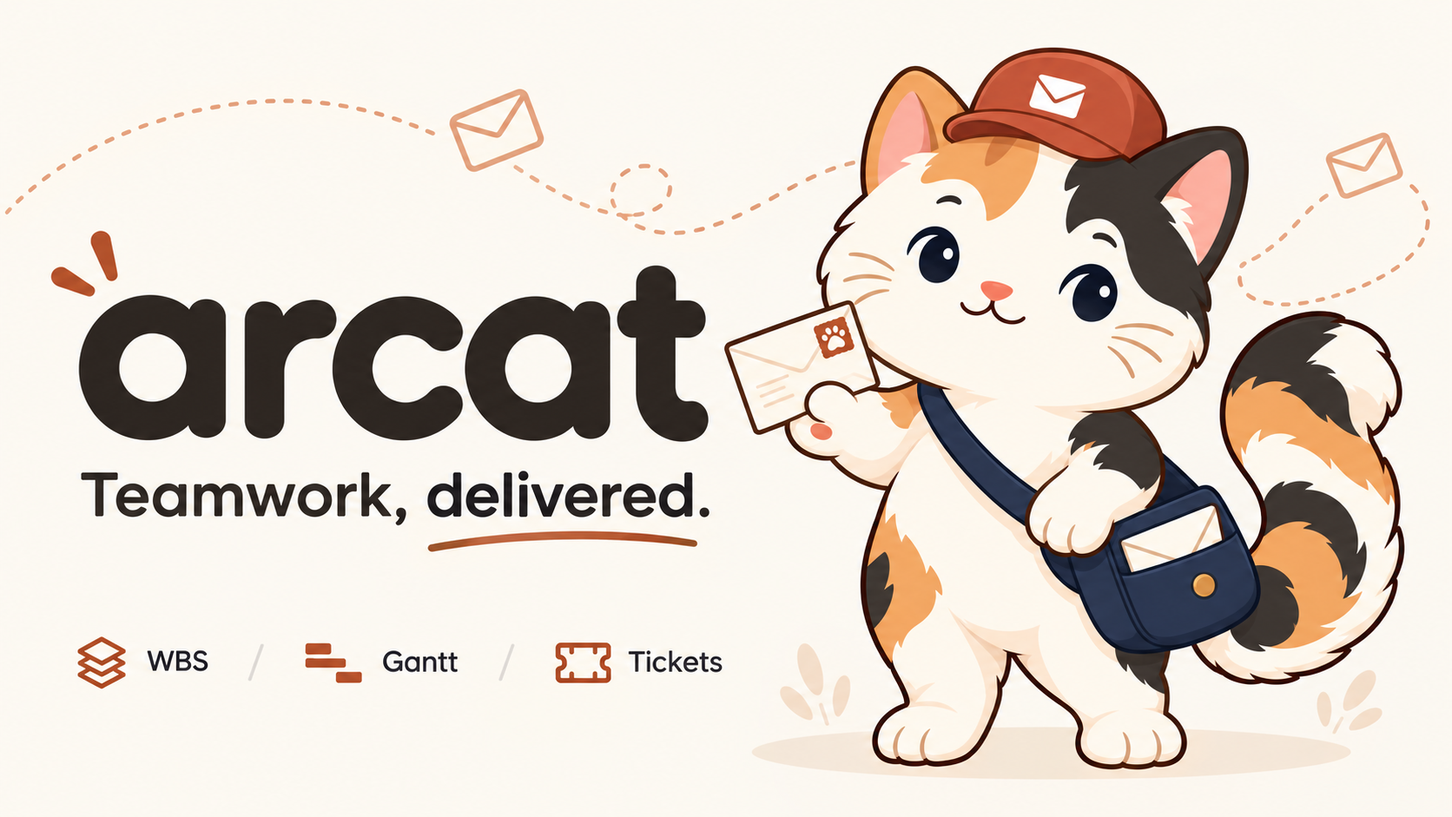
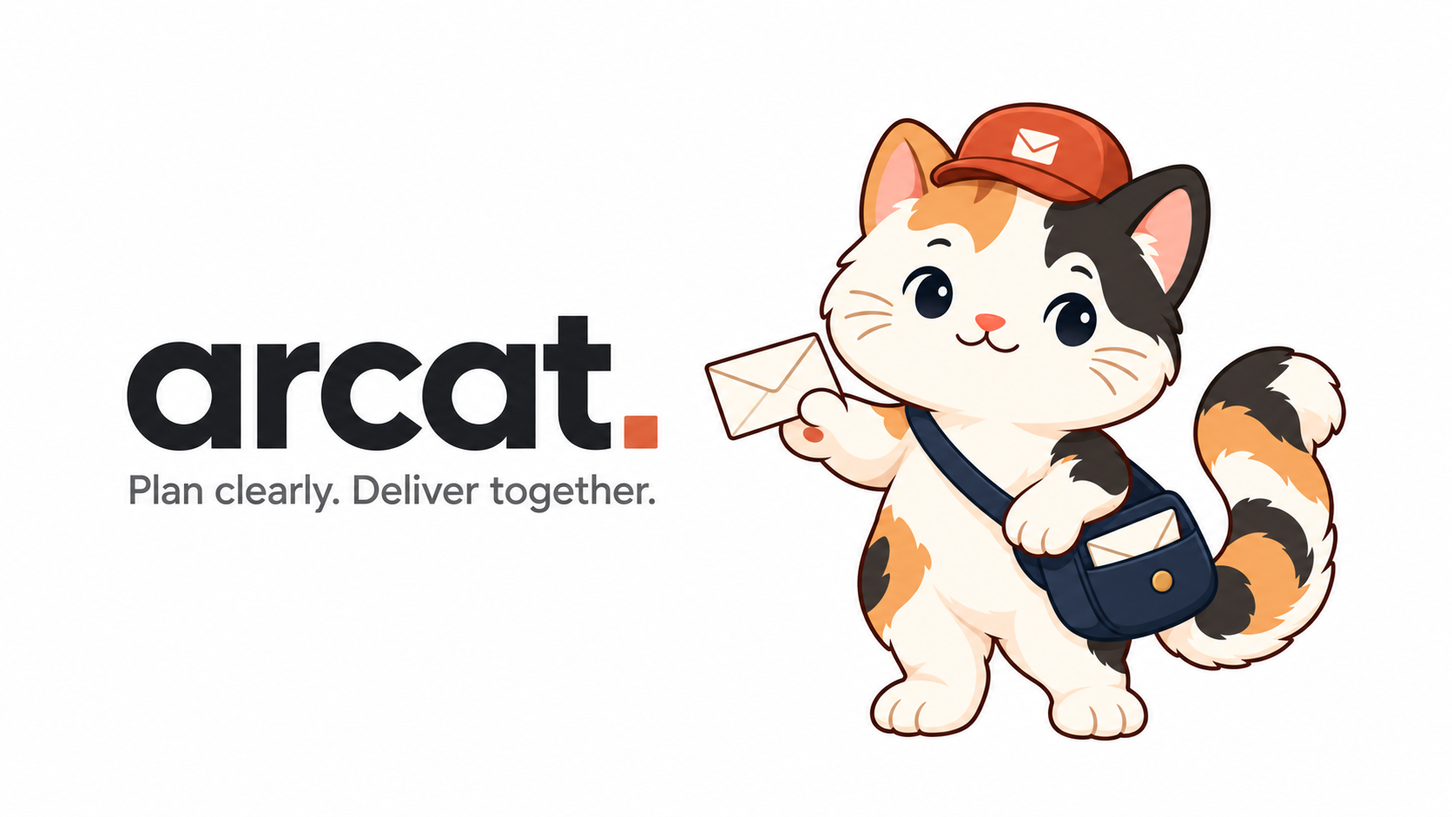
style: use a clean light theme with restrained calico accents

diff --git a/frontend/public/design-preview.html b/frontend/public/design-preview.html
@@ -7,28 +7,29 @@
   <link rel="icon" type="image/png" href="./brand/arcat-mark.png" />
   <style>
     :root {
+      color-scheme: light;
       font-family: system-ui, -apple-system, 'Noto Sans KR', sans-serif;
       font-synthesis: none;
-      --text: #282520; --canvas: #faf7f2; --surface: #fff; --paper: #fffcf7;
-      --subtle: #f2e9dc; --muted: #665e54; --line: #ddd3c6; --control: #908171;
+      --text: #20242b; --canvas: #f7f8fa; --surface: #fff; --paper: #ffffff;
+      --subtle: #f2f4f7; --muted: #59616d; --line: #e2e5e9; --control: #7a818b;
       --primary: #a64b2a; --primary-hover: #873b21; --on-primary: #fff;
-      --selected: #f8e9dd; --selected-text: #873b21; --danger: #ac322d;
-      --task-complete: #a64b2a; --task-remaining: #f0d4bf;
-      --epic-complete: #514d48; --epic-remaining: #d9d3c9;
+      --selected: #fff6ef; --selected-text: #20242b; --danger: #ac322d;
+      --task-complete: #a64b2a; --task-remaining: #e2e5e9;
+      --epic-complete: #4c5665; --epic-remaining: #e2e5e9;
       color: var(--text); background: var(--canvas);
     }
     * { box-sizing: border-box; } body { margin: 0; } button, input, select { font: inherit; } button { cursor: pointer; } a { color: inherit; text-decoration: none; } :focus-visible { outline: 3px solid var(--primary); outline-offset: 2px; }
     .top { height: 64px; display: flex; align-items: center; justify-content: space-between; gap: 16px; padding: 0 28px; border-bottom: 1px solid var(--line); background: var(--surface); }
     .top-left,.top-right,.brand,.crumbs,.user { display: flex; align-items: center; gap: 12px; } .brand { font-weight: 800; font-size: 20px; letter-spacing: -.04em; } .mark { display: block; width: 32px; height: 32px; flex: 0 0 auto; object-fit: contain; }
     .divider { width: 1px; height: 22px; background: var(--line); margin: 0 8px; } .crumbs { color: var(--muted); font-size: 13px; } .crumbs b { color: var(--text); } .search { width: 270px; height: 36px; border: 1px solid var(--control); border-radius: 8px; padding: 0 12px; background: var(--canvas); } .user { font-size: 13px; font-weight: 600; } .avatar { width: 32px; height: 32px; display: grid; place-items: center; border-radius: 50%; background: var(--selected); color: var(--primary); font-weight: 800; }
-    .shell { display: grid; grid-template-columns: 232px minmax(0,1fr); min-height: calc(100vh - 64px); } aside { background: var(--paper); border-right: 1px solid var(--line); padding: 24px 14px; } .side-title { margin: 0 10px 8px; color: var(--muted); font-size: 11px; font-weight: 800; letter-spacing: .09em; } .project-switch { width: 100%; display: flex; justify-content: space-between; align-items: center; padding: 12px; border: 1px solid var(--control); border-radius: 9px; background: var(--surface); font-weight: 700; text-align: left; } nav { display: grid; gap: 4px; margin-top: 26px; } nav a { display: flex; align-items: center; gap: 12px; border-radius: 9px; padding: 11px 13px; font-size: 14px; font-weight: 600; color: var(--muted); } nav a.active { color: var(--selected-text); background: var(--selected); box-shadow: inset 3px 0 var(--primary); } nav a:hover { background: var(--canvas); } .nav-icon { width: 19px; text-align: center; color: var(--muted); } .side-foot { margin: 38px 12px 0; padding-top: 20px; border-top: 1px solid var(--line); color: var(--muted); font-size: 12px; line-height: 1.55; }
-    main { min-width: 0; padding: 34px clamp(18px,3vw,42px) 70px; } .notice { display: inline-flex; align-items: center; gap: 8px; padding: 7px 11px; background: var(--selected); color: var(--selected-text); border-radius: 6px; font-size: 12px; font-weight: 700; } .heading { display: flex; align-items: end; justify-content: space-between; gap: 20px; margin: 23px 0 25px; } .eyebrow { margin: 0 0 7px; color: var(--primary); font-size: 12px; font-weight: 800; letter-spacing: .12em; } h1 { margin: 0; font-size: clamp(28px,3vw,36px); line-height: 1.2; letter-spacing: -.05em; } .subtitle { margin: 9px 0 0; color: var(--muted); font-size: 15px; } .primary { min-height: 42px; padding: 0 17px; border: 0; border-radius: 8px; color: var(--on-primary); background: var(--primary); font-weight: 700; white-space: nowrap; }
+    .shell { display: grid; grid-template-columns: 232px minmax(0,1fr); min-height: calc(100vh - 64px); } aside { background: var(--paper); border-right: 1px solid var(--line); padding: 24px 14px; } .side-title { margin: 0 10px 8px; color: var(--muted); font-size: 11px; font-weight: 800; letter-spacing: .09em; } .project-switch { width: 100%; display: flex; justify-content: space-between; align-items: center; padding: 12px; border: 1px solid var(--control); border-radius: 9px; background: var(--surface); font-weight: 700; text-align: left; } nav { display: grid; gap: 4px; margin-top: 26px; } nav a { display: flex; align-items: center; gap: 12px; border-radius: 9px; padding: 11px 13px; font-size: 14px; font-weight: 600; color: var(--muted); } nav a.active { color: var(--text); background: var(--subtle); box-shadow: inset 3px 0 var(--primary); } nav a:hover { background: var(--canvas); } .nav-icon { width: 19px; text-align: center; color: var(--muted); } .side-foot { margin: 38px 12px 0; padding-top: 20px; border-top: 1px solid var(--line); color: var(--muted); font-size: 12px; line-height: 1.55; }
+    main { min-width: 0; padding: 34px clamp(18px,3vw,42px) 70px; } .notice { display: inline-flex; align-items: center; gap: 8px; padding: 7px 11px; background: var(--subtle); color: var(--muted); border-radius: 6px; font-size: 12px; font-weight: 700; } .heading { display: flex; align-items: end; justify-content: space-between; gap: 20px; margin: 23px 0 25px; } .eyebrow { margin: 0 0 7px; color: var(--primary); font-size: 12px; font-weight: 800; letter-spacing: .12em; } h1 { margin: 0; font-size: clamp(28px,3vw,36px); line-height: 1.2; letter-spacing: -.05em; } .subtitle { margin: 9px 0 0; color: var(--muted); font-size: 15px; } .primary { min-height: 42px; padding: 0 17px; border: 0; border-radius: 8px; color: var(--on-primary); background: var(--primary); font-weight: 700; white-space: nowrap; }
     .primary:hover { background: var(--primary-hover); }
     .summary { display: grid; grid-template-columns: repeat(3,minmax(0,1fr)); gap: 12px; margin-bottom: 22px; } .stat { background: var(--surface); border: 1px solid var(--line); border-radius: 10px; padding: 16px 18px; } .stat label { display: block; margin-bottom: 6px; color: var(--muted); font-size: 13px; } .stat strong { font-size: 22px; } .stat span { margin-left: 8px; color: var(--muted); font-size: 12px; }
-    .panel { border: 1px solid var(--line); border-radius: 12px; overflow: hidden; background: var(--surface); box-shadow: 0 4px 20px #28252008; } .toolbar { min-height: 64px; display: flex; justify-content: space-between; align-items: center; flex-wrap: wrap; gap: 12px; padding: 12px 18px; border-bottom: 1px solid var(--line); } .toolbar-group { display: flex; align-items: center; flex-wrap: wrap; gap: 8px; } .secondary { min-height: 36px; padding: 0 11px; border: 1px solid var(--control); border-radius: 8px; color: var(--text); background: var(--surface); font-size: 13px; font-weight: 700; } .range { margin: 0 8px; font-size: 14px; font-weight: 800; white-space: nowrap; } .filter { background: var(--paper); } .filter input, .filter select { min-height: 36px; border: 1px solid var(--control); border-radius: 8px; background: var(--surface); padding: 0 10px; font-size: 13px; } .filter input { width: 220px; } .filter-count { color: var(--muted); font-size: 13px; }
+    .panel { border: 1px solid var(--line); border-radius: 12px; overflow: hidden; background: var(--surface); box-shadow: 0 4px 20px #20242b08; } .toolbar { min-height: 64px; display: flex; justify-content: space-between; align-items: center; flex-wrap: wrap; gap: 12px; padding: 12px 18px; border-bottom: 1px solid var(--line); } .toolbar-group { display: flex; align-items: center; flex-wrap: wrap; gap: 8px; } .secondary { min-height: 36px; padding: 0 11px; border: 1px solid var(--control); border-radius: 8px; color: var(--text); background: var(--surface); font-size: 13px; font-weight: 700; } .range { margin: 0 8px; font-size: 14px; font-weight: 800; white-space: nowrap; } .filter { background: var(--paper); } .filter input, .filter select { min-height: 36px; border: 1px solid var(--control); border-radius: 8px; background: var(--surface); padding: 0 10px; font-size: 13px; } .filter input { width: 220px; } .filter-count { color: var(--muted); font-size: 13px; }
     .gantt { overflow-x: auto; } .gantt-head,.gantt-row { display: grid; grid-template-columns: 315px 90px minmax(500px,1fr); min-width: 850px; } .gantt-head { height: 48px; align-items: center; color: var(--muted); background: var(--canvas); border-bottom: 1px solid var(--line); font-size: 12px; font-weight: 700; } .gantt-head > span,.gantt-row > span { padding: 0 14px; } .gantt-head .months { display: grid; grid-template-columns: repeat(3,1fr); text-align: center; border-left: 1px solid var(--line); } .gantt-head .months b { border-right: 1px solid var(--line); padding: 14px 0; }
     .gantt-row { height: 52px; align-items: center; border-bottom: 1px solid var(--line); font-size: 13px; } .gantt-row:last-child { border: 0; } .gantt-row:hover { background: var(--paper); } .issue-name { display: flex; flex-direction: column; justify-content: center; gap: 2px; min-width: 0; } .issue-name small { color: var(--muted); font-size: 11px; } .issue-name b { overflow: hidden; text-overflow: ellipsis; white-space: nowrap; font-size: 14px; } .level-1 { padding-left: 32px !important; } .level-2 { padding-left: 50px !important; } .level-3 { padding-left: 68px !important; } .progress { color: var(--muted); font-size: 13px; text-align: right; } .timeline { height: 100%; display: flex; align-items: center; position: relative; border-left: 1px solid var(--line); background: repeating-linear-gradient(90deg,transparent 0,transparent calc(11.11% - 1px),var(--line) calc(11.11% - 1px),var(--line) 11.11%); } .bar { position: absolute; left: var(--left); width: var(--width); height: 17px; border-radius: 4px; background: var(--task-remaining); border: 1px solid var(--task-complete); overflow: hidden; } .bar i { display: block; width: var(--done); height: 100%; background: var(--task-complete); } .bar.epic { background: var(--epic-remaining); border-color: var(--epic-complete); } .bar.epic i { background: var(--epic-complete); } .milestone { position: absolute; left: var(--left); color: var(--epic-complete); font-size: 22px; } .today { position: absolute; left: 45%; height: 100%; border-left: 2px solid var(--danger); } .legend { display: flex; flex-wrap: wrap; gap: 18px; padding: 15px 18px; color: var(--muted); font-size: 12px; border-top: 1px solid var(--line); }
-    .board { display: none; grid-template-columns: repeat(4,minmax(200px,1fr)); gap: 12px; padding: 16px; background: var(--canvas); overflow-x: auto; } .column { min-height: 330px; padding: 10px; background: var(--subtle); border-radius: 9px; } .column header { display: flex; align-items: center; gap: 8px; padding: 5px 4px 12px; font-size: 14px; font-weight: 800; } .column header span { color: var(--muted); font-size: 12px; } .card { padding: 14px; margin-bottom: 9px; background: var(--surface); border: 1px solid var(--line); border-radius: 8px; } .card small { color: var(--muted); font-size: 12px; } .card strong { display: block; margin: 7px 0 14px; font-size: 15px; line-height: 1.4; } .card .meta { display: flex; justify-content: space-between; color: var(--muted); font-size: 12px; } .pill { padding: 3px 7px; border-radius: 5px; color: var(--selected-text); background: var(--selected); font-weight: 700; }
+    .board { display: none; grid-template-columns: repeat(4,minmax(200px,1fr)); gap: 12px; padding: 16px; background: var(--canvas); overflow-x: auto; } .column { min-height: 330px; padding: 10px; background: var(--subtle); border-radius: 9px; } .column header { display: flex; align-items: center; gap: 8px; padding: 5px 4px 12px; font-size: 14px; font-weight: 800; } .column header span { color: var(--muted); font-size: 12px; } .card { padding: 14px; margin-bottom: 9px; background: var(--surface); border: 1px solid var(--line); border-radius: 8px; } .card small { color: var(--muted); font-size: 12px; } .card strong { display: block; margin: 7px 0 14px; font-size: 15px; line-height: 1.4; } .card .meta { display: flex; justify-content: space-between; color: var(--muted); font-size: 12px; } .pill { padding: 3px 7px; border-radius: 5px; color: var(--muted); background: var(--subtle); font-weight: 700; }
     .tab[aria-selected="true"] { border-color: var(--primary); background: var(--selected); color: var(--primary); } .board-view .gantt,.board-view .legend { display: none; } .board-view .board { display: grid; }
     @media(max-width:960px) { .search { display: none; } .shell { grid-template-columns: 72px minmax(0,1fr); } aside { padding: 20px 8px; } .side-title,.project-switch,.side-foot,nav a .nav-label { display: none; } nav a { justify-content: center; padding: 12px; } .summary { grid-template-columns: repeat(3,minmax(0,1fr)); } }
     @media(max-width:650px) { .top { padding: 0 16px; } .crumbs,.divider,.user span:not(.avatar) { display: none; } .shell { display: block; } aside { display: none; } main { padding: 24px 14px 70px; } .heading { align-items: start; flex-direction: column; } .summary { grid-template-columns: 1fr; gap: 8px; } .stat { padding: 12px 14px; } .stat strong { font-size: 19px; } .toolbar { padding: 12px; } .filter input { width: 100%; } .board { grid-template-columns: repeat(4,230px); } .mobile-nav { position: fixed; bottom: 0; left: 0; right: 0; z-index: 5; display: flex !important; justify-content: space-around; padding: 10px; border-top: 1px solid var(--line); background: var(--surface); font-size: 12px; } }

diff --git a/frontend/src/shared/styles/product.css b/frontend/src/shared/styles/product.css
@@ -38,7 +38,8 @@ main { flex: 1; width: 100%; max-width: 1700px; margin: 0 auto; padding: 36px 32
 .priority-column { width: 74px; text-align: center; }
 .progress-column { width: 42px; text-align: right; }
 .issue-row { height: var(--arc-data-row-height); display: flex; align-items: center; justify-content: space-between; gap: 8px; border-bottom: 1px solid var(--arc-color-border); }
-.issue-row:hover, .issue-row.is-selected { background: var(--arc-color-selected); }
+.issue-row:hover { background: var(--arc-color-canvas); }
+.issue-row.is-selected { background: var(--arc-color-surface-subtle); box-shadow: inset 3px 0 var(--arc-color-action-primary); }
 .issue-name { min-width: 0; display: flex; align-items: center; flex: 1; }
 .fold-button, .fold-spacer { flex: 0 0 24px; width: 24px; height: 40px; }
 .fold-button { border: 0; background: none; cursor: pointer; color: var(--arc-color-text-muted); font-size: 18px; }
@@ -84,7 +85,7 @@ main { flex: 1; width: 100%; max-width: 1700px; margin: 0 auto; padding: 36px 32
 .legend-line { width: 16px; border-top: 2px solid var(--arc-gantt-relation); }
 .legend-line.dashed { border-top-style: dashed; }
 .legend-today { height: 14px; border-left: 2px solid var(--arc-gantt-today-line); }
-.issue-detail { position: relative; margin-top: 18px; padding: 16px 18px; background: var(--arc-color-selected); border: 1px solid var(--arc-color-border); border-radius: var(--arc-radius-control); }
+.issue-detail { position: relative; margin-top: 18px; padding: 16px 18px; background: var(--arc-color-surface); border: 1px solid var(--arc-color-border); border-radius: var(--arc-radius-control); }
 .issue-detail h2 { margin: 5px 0 14px; font-size: 17px; }
 .detail-close { position: absolute; top: 9px; right: 12px; border: 0; background: none; color: var(--arc-color-text-muted); font-size: 23px; cursor: pointer; }
 .issue-detail dl { display: grid; grid-template-columns: repeat(3, minmax(0, 1fr)); gap: 12px; margin: 0; font-size: var(--arc-font-label); }
@@ -95,7 +96,7 @@ main { flex: 1; width: 100%; max-width: 1700px; margin: 0 auto; padding: 36px 32
 
 /* Arc workspace shell and product views */
 .muted { color: var(--arc-color-text-muted); }
-.auth-page { min-height: 100vh; display: grid; place-items: center; padding: 24px; background: radial-gradient(circle at 20% 15%, var(--arc-color-selected), transparent 37%), var(--arc-color-canvas); }
+.auth-page { min-height: 100vh; display: grid; place-items: center; padding: 24px; background: var(--arc-color-canvas); }
 .auth-card { width: min(100%, 420px); padding: 12px; box-shadow: var(--arc-shadow-dialog); }
 .auth-card [data-slot="card-title"] { font-size: 26px; letter-spacing: -.04em; }
 .auth-brand { display: flex; align-items: center; gap: 8px; margin-bottom: 20px; font-size: 20px; font-weight: 800; color: var(--arc-color-action-primary); }
@@ -121,14 +122,14 @@ main { flex: 1; width: 100%; max-width: 1700px; margin: 0 auto; padding: 36px 32
 .section-heading h2 { margin: 0; }
 .space-list { display: grid; gap: 7px; }
 .space-item { display: flex; justify-content: space-between; gap: 8px; width: 100%; padding: 12px 14px; border: 1px solid var(--arc-color-border); border-radius: 8px; background: var(--arc-color-surface); text-align: left; font-weight: 700; }
-.space-item.active { color: var(--arc-color-selected-text); border-color: var(--arc-color-action-primary); background: var(--arc-color-selected); }
+.space-item.active { color: var(--arc-color-text); border-color: var(--arc-color-action-primary); background: var(--arc-color-surface); }
 .space-item small { color: var(--arc-color-text-muted); font-size: var(--arc-font-meta); }
 .project-cards { display: grid; grid-template-columns: repeat(auto-fill, minmax(220px, 1fr)); gap: 14px; }
 .project-card { min-height: 150px; display: flex; flex-direction: column; align-items: start; gap: 10px; padding: 20px; border: 1px solid var(--arc-color-border); border-radius: 12px; background: var(--arc-color-surface); text-decoration: none; transition: border-color .15s, box-shadow .15s; }
 .project-card:hover { border-color: var(--arc-color-action-primary); box-shadow: var(--arc-shadow-panel); }
 .project-card strong { font-size: 18px; }
 .project-card .muted { margin-top: auto; font-size: var(--arc-font-meta); }
-.project-key, .data-badge { display: inline-block; border-radius: 5px; background: var(--arc-color-selected); color: var(--arc-color-selected-text); padding: 4px 7px; font-size: var(--arc-font-meta); font-weight: 800; }
+.project-key, .data-badge { display: inline-block; border-radius: 5px; background: var(--arc-color-surface-subtle); color: var(--arc-color-text-muted); padding: 4px 7px; font-size: var(--arc-font-meta); font-weight: 800; }
 .product-shell { min-height: 100vh; display: grid; grid-template-columns: var(--arc-shell-sidebar-width) minmax(0, 1fr); }
 .product-sidebar { position: sticky; top: 0; height: 100dvh; overflow-y: auto; display: flex; flex-direction: column; padding: 22px 14px; border-right: 1px solid var(--arc-color-border); background: var(--arc-color-brand-paper); }
 .product-sidebar .brand { margin: 0 8px 27px; text-decoration: none; }
@@ -138,7 +139,7 @@ main { flex: 1; width: 100%; max-width: 1700px; margin: 0 auto; padding: 36px 32
 .product-sidebar nav { display: grid; gap: 4px; }
 .side-link { display: flex; align-items: center; gap: 11px; padding: 11px 12px; border-radius: 8px; color: var(--arc-color-text-muted); font-size: var(--arc-font-data); font-weight: 650; text-decoration: none; }
 .side-link:hover { background: var(--arc-color-canvas); }
-.side-link.active { color: var(--arc-color-selected-text); background: var(--arc-color-selected); box-shadow: inset 3px 0 var(--arc-color-action-primary); }
+.side-link.active { color: var(--arc-color-text); background: var(--arc-color-surface-subtle); box-shadow: inset 3px 0 var(--arc-color-action-primary); }
 .sidebar-footer { margin-top: auto; padding: 12px; border-top: 1px solid var(--arc-color-border); color: var(--arc-color-text-muted); font-size: var(--arc-font-meta); }
 .product-content { min-width: 0; }
 .product-topbar { height: var(--arc-shell-header-height); display: flex; align-items: center; justify-content: space-between; padding: 0 28px; border-bottom: 1px solid var(--arc-color-border); background: var(--arc-color-surface); color: var(--arc-color-text-muted); font-size: var(--arc-font-label); }
@@ -221,7 +222,7 @@ main { flex: 1; width: 100%; max-width: 1700px; margin: 0 auto; padding: 36px 32
 .ticket-dialog-body .arc-form-actions { position: sticky; bottom: calc(-1 * var(--arc-space-6)); z-index: 1; background: var(--arc-color-surface); margin: 0 calc(-1 * var(--arc-space-6)) calc(-1 * var(--arc-space-6)); padding: var(--arc-space-4) var(--arc-space-6); }
 .custom-properties dt, .custom-properties dd { overflow-wrap: anywhere; white-space: pre-wrap; }
 .ticket-assignment-notice, .ticket-save-notice, .ticket-role-guide { display: flex; align-items: center; gap: var(--arc-space-3); min-width: 0; }
-.ticket-assignment-notice { padding: var(--arc-space-3); border-radius: var(--arc-radius-control); background: var(--arc-color-selected); color: var(--arc-color-selected-text); }
+.ticket-assignment-notice { padding: var(--arc-space-3); border-radius: var(--arc-radius-control); background: var(--arc-color-surface-subtle); color: var(--arc-color-text); }
 .ticket-assignment-notice p, .ticket-save-notice p, .ticket-role-guide p { margin: 0; min-width: 0; font-size: var(--arc-font-label); }
 .ticket-assignment-notice .arcat-mascot, .ticket-save-notice .arcat-mascot, .ticket-role-guide .arcat-mascot { flex: none; }
 .ticket-save-notice { padding: var(--arc-space-3) var(--arc-space-4); margin-bottom: var(--arc-space-4); border-radius: var(--arc-radius-control); background: var(--arc-color-success-surface); color: var(--arc-color-success); }

diff --git a/frontend/src/features/auth/internal/ui/arcat-auth.css b/frontend/src/features/auth/internal/ui/arcat-auth.css
@@ -1,9 +1,6 @@
 .auth-page.arcat-auth-page { min-height: 100dvh; padding: clamp(16px, 3vw, 48px); background: var(--arc-color-canvas); }
-.arcat-auth-layout { display: grid; grid-template-columns: minmax(0, 1.08fr) minmax(380px, .92fr); width: min(100%, 1152px); min-height: 728px; overflow: hidden; border: 1px solid var(--arc-color-border); border-radius: 28px; background: var(--arc-color-surface); box-shadow: var(--arc-shadow-panel); }
+.arcat-auth-layout { display: grid; grid-template-columns: minmax(0, 1.08fr) minmax(380px, .92fr); width: min(100%, 1152px); min-height: 728px; overflow: hidden; border: 1px solid var(--arc-color-border); border-radius: 12px; background: var(--arc-color-surface); }
 .arcat-welcome-panel { position: relative; display: flex; flex-direction: column; min-width: 0; padding: 42px 48px 30px; background: var(--arc-color-brand-surface); overflow: hidden; }
-.arcat-welcome-panel::before, .arcat-welcome-panel::after { position: absolute; content: ''; border-radius: 50%; pointer-events: none; }
-.arcat-welcome-panel::before { top: -152px; right: -148px; width: 380px; height: 380px; background: color-mix(in srgb, var(--arc-color-brand-accent) 9%, transparent); }
-.arcat-welcome-panel::after { bottom: 62px; left: -132px; width: 220px; height: 220px; background: color-mix(in srgb, var(--arc-color-brand-ink) 3%, transparent); }
 .arcat-welcome-panel > .arcat-brand, .arcat-welcome-features { position: relative; z-index: 1; }
 .arcat-welcome-copy { position: relative; z-index: 1; margin-top: 44px; }
 .arcat-welcome-copy .eyebrow { margin-bottom: 12px; font-size: 11px; letter-spacing: .13em; }
@@ -11,8 +8,8 @@
 .arcat-welcome-copy > p:last-child { margin: 18px 0 0; color: var(--arc-color-text-muted); font-size: var(--arc-font-data); line-height: 1.7; }
 .arcat-welcome-art { position: relative; display: flex; flex-direction: column; align-items: center; justify-content: center; margin-top: 6px; flex: 1; }
 .arcat-welcome-art .arcat-mascot { position: relative; z-index: 1; }
-.arcat-welcome-orbit { position: absolute; width: 278px; height: 278px; max-width: 90%; border-radius: 50%; background: var(--arc-color-brand-paper); border: 1px solid var(--arc-color-border); box-shadow: 0 0 0 22px color-mix(in srgb, var(--arc-color-brand-paper) 24%, transparent); }
-.arcat-welcome-caption { position: relative; z-index: 1; padding: 8px 16px; margin: -21px 0 18px; border: 1px solid var(--arc-color-border); border-radius: 100px; background: var(--arc-color-brand-paper); color: var(--arc-color-text-muted); font-size: var(--arc-font-meta); }
+.arcat-welcome-orbit { display: none; }
+.arcat-welcome-caption { position: relative; z-index: 1; padding: 8px 16px; margin: -21px 0 18px; color: var(--arc-color-text-muted); font-size: var(--arc-font-meta); }
 .arcat-welcome-features { display: flex; justify-content: center; flex-wrap: wrap; gap: 7px; padding: 0; margin: 0; list-style: none; }
 .arcat-welcome-features li { padding: 7px 10px; border: 1px solid var(--arc-color-border); border-radius: 8px; color: var(--arc-color-text-muted); font-size: 11px; white-space: nowrap; }
 .arcat-auth-form-panel { display: flex; flex-direction: column; justify-content: center; align-items: center; min-width: 0; padding: 42px; }
@@ -28,8 +25,8 @@
 .arcat-auth-footer { margin: 34px 0 0; color: var(--arc-color-text-muted); font-size: var(--arc-font-meta); }
 .arcat-auth-notice { display: flex; align-items: center; gap: 12px; padding: 12px; margin-top: 20px; border: 1px solid var(--arc-color-border); border-radius: 12px; background: var(--arc-color-success-surface); }
 .arcat-auth-notice p { margin: 0; color: var(--arc-color-success); font-size: var(--arc-font-label); line-height: 1.6; }
-.auth-page.arcat-status-page { min-height: 100dvh; padding: 24px; background: radial-gradient(circle at 50% 25%, var(--arc-color-brand-surface), transparent 55%), var(--arc-color-canvas); }
-.arcat-status-page .arcat-status-card { width: min(100%, 440px); padding: 28px; gap: 24px; border-radius: 22px; text-align: center; }
+.auth-page.arcat-status-page { min-height: 100dvh; padding: 24px; background: var(--arc-color-canvas); }
+.arcat-status-page .arcat-status-card { width: min(100%, 440px); padding: 28px; gap: 24px; border-radius: 12px; box-shadow: none; text-align: center; }
 .arcat-status-card [data-slot='card-header'], .arcat-status-card [data-slot='card-content'] { padding: 0; }
 .arcat-status-card [data-slot='card-header'] { justify-items: center; gap: 22px; }
 .arcat-status-card h1 { margin: 0; font-size: 26px; font-weight: 750; letter-spacing: -.045em; }

diff --git a/frontend/src/shared/styles/tokens.css b/frontend/src/shared/styles/tokens.css
@@ -1,18 +1,18 @@
 :root {
-  /* arcat primitives. KRDS layering, with calico fur and courier stationery colors. */
-  --arc-copper-50: #f8e9dd;
+  /* arcat primitives. Neutral light surfaces, with calico colors reserved for accents. */
+  --arc-copper-50: #fff6ef;
   --arc-copper-100: #f0d4bf;
   --arc-copper-600: #a64b2a;
   --arc-copper-700: #873b21;
   --arc-ginger-400: #df995b;
-  --arc-paper-50: #fffcf7;
+  --arc-paper-50: #ffffff;
   --arc-neutral-0: #ffffff;
-  --arc-neutral-50: #faf7f2;
-  --arc-neutral-100: #f2e9dc;
-  --arc-neutral-200: #ddd3c6;
-  --arc-neutral-500: #908171;
-  --arc-neutral-600: #665e54;
-  --arc-neutral-900: #282520;
+  --arc-neutral-50: #f7f8fa;
+  --arc-neutral-100: #f2f4f7;
+  --arc-neutral-200: #e2e5e9;
+  --arc-neutral-500: #7a818b;
+  --arc-neutral-600: #59616d;
+  --arc-neutral-900: #20242b;
   --arc-red-50: #fceeeb;
   --arc-red-700: #ac322d;
   --arc-green-50: #edf4ee;
@@ -30,8 +30,8 @@
   --arc-color-action-hover: var(--arc-copper-700);
   --arc-color-action-on-primary: var(--arc-neutral-0);
   --arc-color-selected: var(--arc-copper-50);
-  --arc-color-selected-text: var(--arc-copper-700);
-  --arc-color-brand-surface: var(--arc-neutral-100);
+  --arc-color-selected-text: var(--arc-neutral-900);
+  --arc-color-brand-surface: var(--arc-neutral-50);
   --arc-color-brand-paper: var(--arc-paper-50);
   --arc-color-brand-accent: var(--arc-ginger-400);
   --arc-color-brand-ink: var(--arc-neutral-900);
@@ -72,11 +72,11 @@
   --arc-gantt-today-line: var(--arc-color-danger);
   --arc-gantt-weekend-background: var(--arc-color-surface-subtle);
   --arc-gantt-task-complete: var(--arc-color-action-primary);
-  --arc-gantt-task-remaining: var(--arc-copper-100);
-  --arc-gantt-epic-complete: #514d48;
-  --arc-gantt-epic-remaining: #d9d3c9;
+  --arc-gantt-task-remaining: var(--arc-neutral-200);
+  --arc-gantt-epic-complete: #4c5665;
+  --arc-gantt-epic-remaining: var(--arc-neutral-200);
   --arc-gantt-bug-complete: var(--arc-color-danger);
-  --arc-gantt-bug-remaining: #f4ceca;
+  --arc-gantt-bug-remaining: var(--arc-neutral-200);
   --arc-gantt-relation: var(--arc-color-text-muted);
   --arc-gantt-progress-line: #8a4263;
 }

diff --git a/frontend/src/features/workspace/internal/ui/arcat-workspace.css b/frontend/src/features/workspace/internal/ui/arcat-workspace.css
@@ -7,13 +7,13 @@
 .arcat-workspace-create [data-slot='card-title'], .arcat-project-create [data-slot='card-title'] { font-weight: 700; }
 .arcat-project-create [data-slot='card-header'] > .muted { margin: 4px 0 0; font-size: var(--arc-font-label); }
 .arcat-project-create-actions { display: flex; justify-content: end; }
-.arcat-workspace-empty { display: flex; flex-direction: column; align-items: center; gap: 12px; padding: 32px 24px; border: 1px dashed var(--arc-color-border); border-radius: 14px; background: var(--arc-color-brand-paper); text-align: center; }
+.arcat-workspace-empty { display: flex; flex-direction: column; align-items: center; gap: 12px; padding: 32px 24px; border: 1px dashed var(--arc-color-border); border-radius: 12px; background: var(--arc-color-surface); text-align: center; }
 .arcat-workspace-empty h3 { margin: 0; font-size: 19px; font-weight: 700; letter-spacing: -.025em; }
 .arcat-workspace-empty p { margin: 0; color: var(--arc-color-text-muted); font-size: var(--arc-font-data); }
 .arcat-workspace-empty .empty-message { border: 0; background: transparent; padding: 0; }
 .arcat-project-empty { flex-direction: row; justify-content: center; gap: 22px; padding: 20px 24px; text-align: left; }
 .arcat-project-empty h3 { margin-bottom: 8px; font-size: 17px; }
-.arcat-workspace-notice { display: flex; align-items: center; gap: 16px; padding: 14px 22px; margin: -12px 0 28px; border: 1px solid var(--arc-color-border); border-radius: 14px; background: var(--arc-color-brand-paper); }
+.arcat-workspace-notice { display: flex; align-items: center; gap: 16px; padding: 14px 22px; margin: -12px 0 28px; border: 1px solid var(--arc-color-border); border-radius: 12px; background: var(--arc-color-surface); }
 .arcat-workspace-notice strong { font-weight: 700; }
 .arcat-workspace-notice p { margin: 5px 0 0; color: var(--arc-color-text-muted); font-size: var(--arc-font-label); }
 @media (max-width: 760px) {

diff --git a/frontend/src/shared/styles/index.css b/frontend/src/shared/styles/index.css
@@ -7,6 +7,7 @@
 @custom-variant dark (&:is(.dark *));
 
 :root {
+  color-scheme: light;
   font-family: var(--arc-font-family);
   color: var(--arc-color-text);
   background: var(--arc-color-canvas);
@@ -50,11 +51,12 @@
 * { box-sizing: border-box; }
 body { margin: 0; min-width: 320px; font-size: var(--arc-font-body); line-height: var(--arc-line-height); }
 button, input, textarea, select { font: inherit; }
+input[type="checkbox"], input[type="radio"] { accent-color: var(--arc-color-action-primary); }
 a { color: inherit; }
 :focus-visible { outline: var(--arc-focus-width) solid var(--arc-color-focus); outline-offset: var(--arc-focus-gap); }
 button:disabled, select:disabled { cursor: not-allowed; }
 @media (prefers-reduced-motion: reduce) { *, *::before, *::after { animation-duration: .01ms !important; transition-duration: .01ms !important; scroll-behavior: auto !important; } }
-@media (forced-colors: active) { :focus-visible { outline-color: Highlight; } [data-slot="button"], input, select, textarea { border: 1px solid ButtonText; } }
+@media (forced-colors: active) { :focus-visible { outline-color: Highlight; } [data-slot="button"], input, select, textarea { border: 1px solid ButtonText; } input[type="checkbox"], input[type="radio"] { accent-color: auto; } }
 
 @theme inline {
   --font-heading: var(--font-sans);

diff --git a/docs/DESIGN_GUIDE.md b/docs/DESIGN_GUIDE.md
@@ -2,7 +2,7 @@
 
 > 후속 검토: [디자인 재기획 v2](DESIGN_REPLAN.md)에서 현재 화면 진단, 새로운 정보 구조, 컴포넌트 계약과 구현 순서를 정리했다.
 
-> 상태: arcat 디자인 시스템 v2 · 삼색 집배원 브랜드 확장 2026-10-11 · 구현 기준은 `frontend/src/shared/styles/tokens.css`
+> 상태: arcat 디자인 시스템 v2 · 중립 라이트 테마 색상 계약 갱신 2026-10-11 · 구현 기준은 `frontend/src/shared/styles/tokens.css`
 
 ## 1. 제품 경험
 
@@ -49,25 +49,27 @@ KRDS를 그대로 복제하지 않는다. KRDS의 기반 토큰과 컴포넌트 
 
 | 용도 | 값 | 사용 |
 | --- | --- | --- |
-| 바탕 | `#FAF7F2` | 앱 배경 |
+| 바탕 | `#F7F8FA` | 중립 회색 앱 배경 |
 | 표면 | `#FFFFFF` | 카드·패널·대화상자 |
-| 보조 표면 | `#F2E9DC` | 크림색 안내 패널·보조 영역 |
-| 우편 종이 | `#FFFCF7` | 탐색·브랜드 패널의 밝은 바탕 |
-| 기본 글자 | `#282520` | 차콜 제목·본문 |
-| 보조 글자 | `#665E54` | 메타 정보 |
-| 경계 | `#DDD3C6` | 패널·표의 장식적 구분선 |
-| 입력 경계 | `#908171` | 입력·선택·윤곽 버튼의 식별 가능한 경계 |
+| 보조 표면 | `#F2F4F7` | 중립 보조 영역·데이터 헤더 |
+| 종이·브랜드 패널 | `#FFFFFF` | 탐색·인증·온보딩의 흰색 표면 |
+| 기본 글자 | `#20242B` | 중립 제목·본문 |
+| 보조 글자 | `#59616D` | 메타 정보 |
+| 경계 | `#E2E5E9` | 패널·표의 장식적 구분선 |
+| 입력 경계 | `#7A818B` | 입력·선택·윤곽 버튼의 식별 가능한 경계 |
 | 주 행동 | `#A64B2A` | 구리색 주요 버튼·링크·활성 탐색·포커스 |
-| 주 행동 hover | `#873B21` | hover·선택 글자 |
-| 선택 바탕 | `#F8E9DD` | 선택 행·탐색·필터 |
-| 진저 장식 | `#DF995B` | 캐릭터·장식 전용 포인트 |
+| 주 행동 hover | `#873B21` | 주 행동·링크의 hover |
+| 작은 선택 바탕 | `#FFF6EF` | 작은 선택 조작·포인트 |
+| 진저 포인트 | `#DF995B` | 캐릭터·로고 전용 포인트 |
 | 위험 | `#AC322D` | 삭제·오류 |
 
-삼색 털과 우편 문구류의 색을 브랜드로 확장한다. 진저 장식은 흰색과 2.37:1이므로 작은 글자·입력 경계·주 행동에 사용하지 않는다. 상태는 글자와 아이콘/레이블을 함께 사용하며 색만으로 의미를 전달하지 않는다.
+앱의 큰 면적은 흰색·중립 회색으로 구성한다. 삼색은 캐릭터·로고, 구리색 주 행동·선택·포커스와 데이터 강조에 제한한다. 인증·온보딩·빈 상태·탐색에 베이지/크림 전체 배경, 갈색 본문·입력 테두리, 큰 장식 원·그라데이션을 적용하지 않는다. 진저색은 흰색과 2.37:1이므로 작은 글자·입력 경계·주 행동에 사용하지 않는다. 상태는 글자와 아이콘/레이블을 함께 사용하며 색만으로 의미를 전달하지 않는다.
+
+활성 메뉴·간트 선택 행은 중립 회색 바탕과 작은 구리색 표시로 구분한다. 데이터 배지·배정 안내·간트 선택 상세는 흰색·중립 회색 패널을 유지한다. `#FFF6EF`는 작은 선택 조작에 한정하고 선택 글자는 기본 `#20242B`를 사용한다. 브라우저 기본 날짜·입력 컨트롤도 라이트 화면 모드로 제공한다.
 
 | 의미 | 배경 | 글자 |
 | --- | --- | --- |
-| 선택 | `#F8E9DD` | `#873B21` |
+| 작은 선택 조작 | `#FFF6EF` | `#20242B` |
 | 주의 | `#FFF2D7` | `#775118` |
 | 오류 | `#FCEEEB` | `#AC322D` |
 | 성공 | `#EDF4EE` | `#286046` |
@@ -145,7 +147,7 @@ KRDS의 토큰 계층과 접근성 원칙을 채택한다. arcat의 값이나 `-
 
 | KRDS 기준 | arcat 대응 | 확장 이유 |
 | --- | --- | --- |
-| 기본 색·서체·간격·반경 | `--arc-copper-*`, `--arc-ginger-*`, `--arc-neutral-*`, Pretendard GOV, 4px 간격 | 삼색 집배원 브랜드와 데이터 화면의 밀도 |
+| 기본 색·서체·간격·반경 | `--arc-copper-*`, `--arc-ginger-*`, `--arc-neutral-*`, Pretendard GOV, 4px 간격 | 중립 라이트 테마·삼색 포인트와 데이터 화면의 밀도 |
 | 의미에 따른 토큰 사용 | `--arc-color-action-*`, `text-muted`, `border-control`, `danger`, `success` | 동일한 상태를 모든 화면에서 표현 |
 | 컴포넌트 크기·상태 | `--arc-control-height*`, `--arc-focus-*` | 폼 40px, 주요 행동 44px, 밀집 조작 32px |
 | 접근 가능한 정보 제공 | `--arc-gantt-*`, `--arc-data-row-height` | 48px 행, 완료/남은 구간·관계·오늘·진행선 구분 |
@@ -163,20 +165,25 @@ KRDS의 토큰 계층과 접근성 원칙을 채택한다. arcat의 값이나 `-
 
 ### 색상 대비 근거
 
-WCAG 상대 휘도 공식으로 산출한 밝은 화면의 토큰 대비다. 전체 화면의 접근성 검증은 실제 렌더링 결과를 별도로 확인한다.
+WCAG 상대 휘도 공식으로 산출한 라이트 테마 토큰의 대비다. 값 계산은 실제 화면의 새 접근성 검증 결과와 구분하며 전체 렌더링 검증은 별도로 진행한다.
 
 | 조합 | 대비 |
 | --- | --- |
 | 주 행동 `#A64B2A` / 흰색 | 5.74:1 |
 | hover `#873B21` / 흰색 | 7.84:1 |
-| 본문 `#282520` / 바탕 `#FAF7F2` | 14.28:1 |
-| 보조 글자 `#665E54` / 흰색 | 6.38:1 |
-| 입력 경계 `#908171` / 흰색 | 3.77:1 |
-| 간트 Task 완료 `#A64B2A` / 남은 구간 `#F0D4BF` | 4.06:1 |
-| 간트 Epic 완료 `#514D48` / 남은 구간 `#D9D3C9` | 5.63:1 |
-| 간트 Bug 완료 `#AC322D` / 남은 구간 `#F4CECA` | 4.47:1 |
+| 본문 `#20242B` / 바탕 `#F7F8FA` | 14.65:1 |
+| 보조 글자 `#59616D` / 흰색 | 6.26:1 |
+| 보조 글자 `#59616D` / 보조 표면 `#F2F4F7` | 5.68:1 |
+| 입력 경계 `#7A818B` / 흰색 | 3.93:1 |
+| 입력 경계 `#7A818B` / 보조 표면 `#F2F4F7` | 3.57:1 |
+| 선택 글자 `#20242B` / 작은 선택 바탕 `#FFF6EF` | 14.59:1 |
+| 간트 Task 완료 `#A64B2A` / 남은 구간 `#E2E5E9` | 4.54:1 |
+| 간트 Epic 완료 `#4C5665` / 남은 구간 `#E2E5E9` | 5.88:1 |
+| 간트 Bug 완료 `#AC322D` / 남은 구간 `#E2E5E9` | 5.12:1 |
 
 얇은 표 구분선은 장식적 경계이고, 입력 경계와 간트 데이터 도형은 3:1 식별 기준을 적용한다. 색 이외에 레이블·선 모양·선택 상세를 함께 제공한다.
+
+기존 50장 제품 사진은 이전 삼색 브랜드의 베이지 배경 단계다. 새 라이트 테마 적용 후 같은 실제 상태를 다시 촬영하고 촬영 코드·날짜를 갱신한다. 라이트 테마의 새 브라우저·접근성·CI 결과는 [디자인 검증](DESIGN_VERIFICATION.md)에 따로 기록한다.
 
 ### 캐릭터와 상호작용
 
@@ -198,3 +205,5 @@ WCAG 상대 휘도 공식으로 산출한 밝은 화면의 토큰 대비다. 전
 별도 일정 개요 타임라인은 키·제목·실제 날짜를 함께 읽도록 최소 88px 행을 사용한다. 이는 정밀 간트의 48px 행 규칙과 구분한다. 동일한 의미 색을 사용하고 기간·단일 날짜·하위 집계는 모양과 문구를 함께 제공한다. 차트 내부에 이름 있는 키보드 스크롤 영역을 둔다. 미계획·기간 밖·상속 일정 역전은 개별 링크 목록으로 제공한다.
 
 테이블의 표시 열은 네이티브 체크박스를 사용하고 키·제목을 필수로 유지한다. 정렬 헤더는 `aria-sort`를 제공한다. 모바일 프로젝트 메뉴는 보기 증가에 따라 한 줄의 가로 스크롤 탐색을 사용하며 본문의 가로 넘침을 만들지 않는다.
+
+HTML 시안의 작은 활성 보기 탭에는 구리색 텍스트 포인트를 허용한다. 실제 제품의 넓은 탐색·선택 행과 상세 패널은 중립색을 사용한다.

diff --git a/docs/STATUS.md b/docs/STATUS.md
@@ -2,7 +2,9 @@
 
 > 갱신일: 2026-10-11 · 기준: [기능 명세](FUNCTIONAL_SPEC.md)
 
-**전체 제품의 KRDS 정비 계획을 작성했습니다.** [적용 기준](KRDS_ADOPTION.md)과 [실행 계획](plans/2026-10-11-krds-product-design.md)에 실제 화면 50장의 감사, 정부 전용 요소 제외, 삼색 브랜드 유지, 공통 UI→탐색·폼→업무 화면→회귀 검증·자료 갱신 순서와 작업 단위 커밋을 정리했습니다. 기존 기능·권한·API·간트/타임라인 좌표는 보호 계약으로 명시했습니다. Superpowers의 설치·활성화는 확인했지만 현재 세션에서 Superpowers와 product-design 스킬 지침을 읽을 수 없어 해당 지침의 적용과 KRDS 소스 구현은 보류 중입니다. 이는 product-design의 미설치를 의미하지 않습니다.
+**최신 요청에 따른 라이트 테마 교정과 로컬 검증을 완료했습니다.** 넓은 화면은 흰색·중립적인 밝은 회색, 글자·경계는 중립 회색으로 바꾸고 삼색은 캐릭터·로고·주 행동·작은 선택/초점·데이터 강조에만 사용합니다. 베이지·크림의 큰 면과 로그인 장식 원·그라데이션을 줄입니다. 이번 교정은 기존 기능·치수·권한·캐릭터 동작을 유지하며 전체 KRDS 컴포넌트 재구성과 별도로 먼저 진행합니다. 전체 API·GitHub/GitLab 모형·기존/티켓 필드/삼색 브랜드 브라우저 수용 검사가 통과했습니다. 독립 코드 리뷰에서는 중요·치명적 결함이 없었습니다. 실제 제품 사진 재촬영·자료 게시와 최종 GitHub CI를 이어갑니다. 아래 완료 결과는 이전 삼색 브랜드 작업의 기록입니다.
+
+**전체 제품의 KRDS 정비 계획을 작성했습니다.** [적용 기준](KRDS_ADOPTION.md)과 [실행 계획](plans/2026-10-11-krds-product-design.md)에 실제 화면 50장의 감사, 정부 전용 요소 제외, 삼색 브랜드 유지, 공통 UI→탐색·폼→업무 화면→회귀 검증·자료 갱신 순서와 작업 단위 커밋을 정리했습니다. 기존 기능·권한·API·간트/타임라인 좌표는 보호 계약으로 명시했습니다. 재연결 후 Superpowers와 Product Design의 핵심 지침을 읽고 검증·코드 리뷰 및 저장 문맥 preflight를 반영했습니다. 전체 KRDS 조작 치수 정비는 후속 작업이며 이번 라이트 교정에서 기존 치수는 유지했습니다.
 
 **삼색 집배원 고양이와 제품 컬러 확장·화면 자료·CI 검증을 완료했습니다.** 크림색·진저색·차콜색 털 무늬와 구리색 모자를 가진 같은 캐릭터를 상단 로고·favicon·배너와 인사·시선·눈 가림·전달·축하 자세에 연결했습니다. 로그인·가입의 제한된 시선·몸 움직임과 비밀번호 초점 눈 가림, 모션 감소·터치 정지 및 화면 이동 후 정리를 확인했습니다. 온보딩·메일·배정·저장과 WBS·스프린트의 실제 빈 상태에 상황별 자세를 적용하고, 제품 전체의 색을 [브랜드 명세](ARCAT_BRAND.md)의 구리색·차콜색·크림색 토큰으로 통일했습니다. 새 이미지 6개가 모두 로딩되며 8개 상태×1920/768/360px의 axe 검사 24개에서 위반·문서 가로 넘침·브라우저 오류는 0건입니다. 로컬 전체 API·GitHub/GitLab 제공자 모형·기존 및 티켓 필드·삼색 브랜드 브라우저 수용 검사도 통과했습니다. 코드 기준 `5ddc782`의 [GitHub CI #38107545188](https://github.com/jujoycode/Arc/actions/runs/38107545188)에서 프런트·백엔드·API/브라우저·최종 게이트가 모두 성공했습니다. [실제 제품 사진 50장](product/README.md)의 원본은 모두 1920×1080이며 같은 코드 기준으로 2026-10-11 KST에 촬영했습니다. 아래 수치는 이전 브랜드·폼 구현의 완료 기록입니다. [새 디자인 검증 범위](DESIGN_VERIFICATION.md#2026-10-11-삼색-집배원-브랜드와-인터랙션)를 참고하세요.
 

diff --git a/docs/ARCAT_BRAND.md b/docs/ARCAT_BRAND.md
@@ -1,8 +1,8 @@
 # arcat 브랜드와 삼색 집배원 고양이
 
-> 갱신일: 2026-10-11 KST · 삼색 집배원 고양이·제품 색상·상황별 인터랙션
+> 갱신일: 2026-10-11 KST · 중립 라이트 테마·삼색 포인트·상황별 인터랙션
 
-제품 표기는 소문자 **arcat**을 사용한다. KRDS의 토큰 계층·접근성·정보 구조를 바탕으로, 삼색 집배원 고양이와 우편 문구류의 색을 제품 전체에 연결한다. 캐릭터는 팀이 업무를 전달하고 함께 마무리하는 경험을 표현한다.
+제품 표기는 소문자 **arcat**을 사용한다. KRDS의 토큰 계층·접근성·정보 구조를 바탕으로 흰색·중립 회색의 깔끔한 라이트 테마를 제공한다. 삼색 집배원 고양이는 로고·캐릭터와 작은 행동·선택·데이터 포인트에 사용한다. 캐릭터는 팀이 업무를 전달하고 함께 마무리하는 경험을 표현한다.
 
 ## 캐릭터와 자산
 
@@ -14,13 +14,22 @@
 
 | 역할 | 값 | 적용 |
 | --- | --- | --- |
-| 구리색 | `#A64B2A` / hover `#873B21` | 주 버튼·링크·선택·포커스 |
-| 차콜 | `#282520` | 제목·본문·캐릭터의 짙은 무늬 |
-| 따뜻한 바탕 | `#FAF7F2` | 전체 앱 배경 |
-| 크림색 | `#F2E9DC` | 보조 표면·온보딩 패널 |
-| 진저색 | `#DF995B` | 장식·빛·캐릭터 포인트 |
+| 흰색 표면·종이 | `#FFFFFF` | 헤더·탐색·카드·폼·대화상자·인증 패널 |
+| 중립 바탕 | `#F7F8FA` | 전체 앱 배경 |
+| 중립 보조 표면 | `#F2F4F7` | 보조 영역·데이터 헤더 |
+| 기본 글자 / 보조 글자 | `#20242B` / `#59616D` | 제목·본문 / 메타 정보 |
+| 구분선 / 입력 경계 | `#E2E5E9` / `#7A818B` | 장식적 경계 / 식별 가능한 컨트롤 |
+| 구리색 포인트 | `#A64B2A` / hover `#873B21` | 주 행동·링크·포커스·작은 선택 표시·데이터 강조 |
+| 옅은 선택 바탕 | `#FFF6EF`, 글자 `#20242B` | 작은 선택 조작 |
+| 진저색 | `#DF995B` | 캐릭터·로고의 포인트 |
+
+큰 화면 면적은 흰색·중립 회색으로 구성한다. 로그인·온보딩·사이드바·빈 상태에도 베이지/크림 전체 배경, 갈색 본문·테두리, 큰 장식 원과 그라데이션을 사용하지 않는다. 삼색 털·이미지·마우스 시선·눈 가림·전달·축하 동작은 유지한다.
+
+활성 탐색과 간트의 선택 행은 중립 회색 바탕에 작은 구리색 표시를 둔다. 데이터 배지·배정 안내·선택 상세 패널은 흰색·중립 회색을 사용한다. 간트 남은 구간은 `#E2E5E9`, 완료 구간은 업무 `#A64B2A`·Epic `#4C5665`·Bug 오류 색으로 구분한다. 옅은 선택 바탕을 넓은 안내 패널에 확장하지 않는다.
 
 진저색은 흰색과의 대비가 낮아 작은 글자·입력 경계·주 버튼에 사용하지 않는다. 오류·성공·주의는 별도의 의미 색과 문구로 유지한다. 화면은 원시 색상 대신 `--arc-color-*`를 소비하며, 정확한 토큰과 대비 근거는 [디자인 가이드](DESIGN_GUIDE.md#색상-토큰)에 기록한다.
+
+기존 제품 사진은 베이지 바탕을 사용한 이전 삼색 브랜드 단계의 자료다. 라이트 테마 수정 후 실제 화면을 다시 촬영하고 코드 기준을 갱신한다. 이 색상 계약의 문서 반영만으로 새 화면·접근성·CI 검증 완료를 주장하지 않는다.
 
 ## 화면 적용
 
